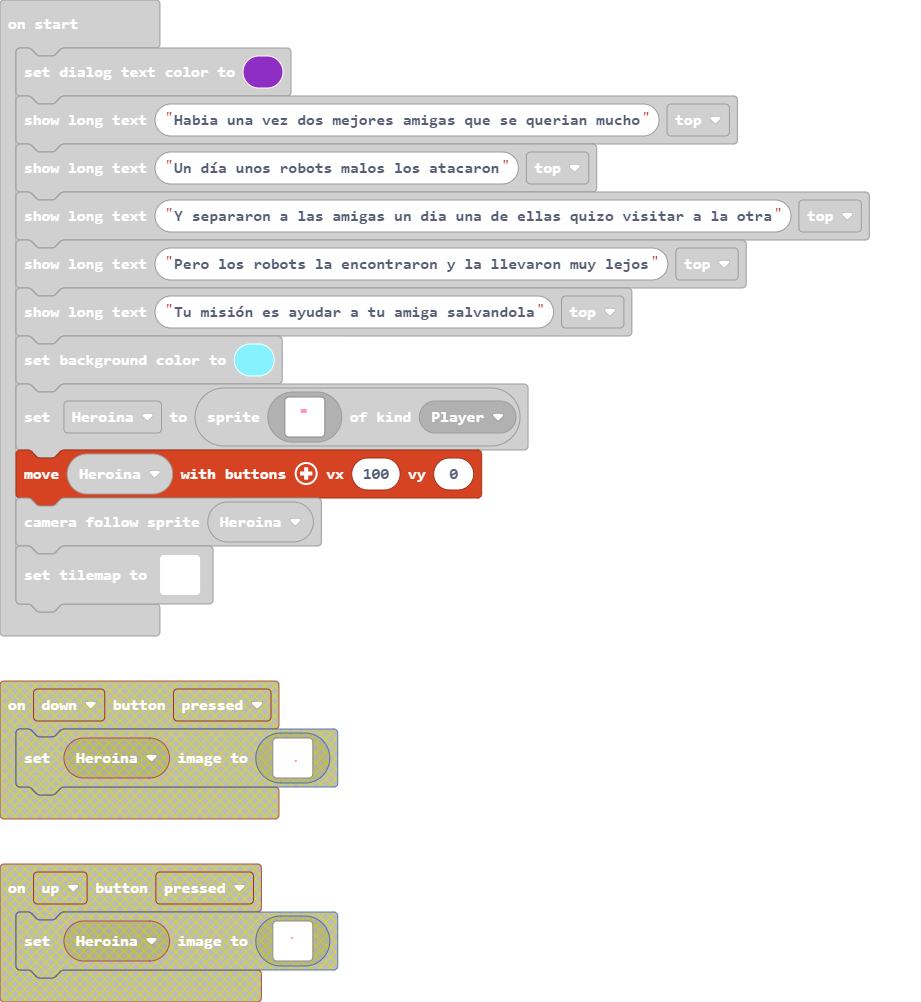
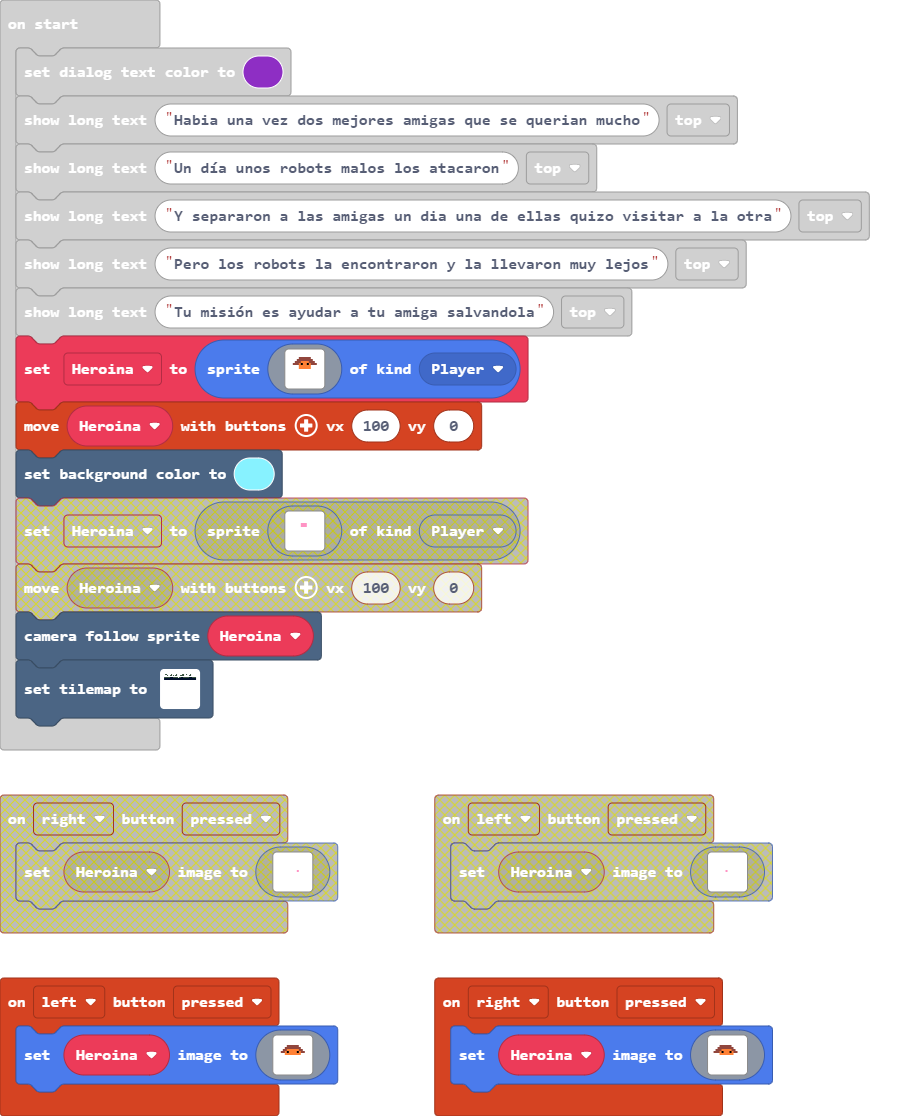
Agregue plataforma, un sprite botones, movimiento

diff --git a/main.ts b/main.ts
@@ -3,11 +3,11 @@ controller.left.onEvent(ControllerButtonEvent.Pressed, function () {
         . . . . . . . . . . . . . . . . 
         . . . . . . . . . . . . . . . . 
         . . . . . . . . . . . . . . . . 
-        . . . . . . . . . . . . . . . . 
-        . . . . . . . . . . . . . . . . 
-        . . . . . . . . . . . . . . . . 
-        . . . . . . . . . . . . . . . . 
-        . . . . . . . 3 . . . . . . . . 
+        . . . . . e e e e e e . . . . . 
+        . . . . e e e e e e e e . . . . 
+        . . . e e 4 4 4 4 4 4 e e . . . 
+        . . e e 4 f 4 4 4 4 f 4 e e . . 
+        . . . . 4 4 4 4 4 4 4 4 . . . . 
         . . . . . . . . . . . . . . . . 
         . . . . . . . . . . . . . . . . 
         . . . . . . . . . . . . . . . . 
@@ -23,11 +23,11 @@ controller.right.onEvent(ControllerButtonEvent.Pressed, function () {
         . . . . . . . . . . . . . . . . 
         . . . . . . . . . . . . . . . . 
         . . . . . . . . . . . . . . . . 
-        . . . . . . . . . . . . . . . . 
-        . . . . . . . . . . . . . . . . 
-        . . . . . . . . . . . . . . . . 
-        . . . . . . . . . . . . . . . . 
-        . . . . . . . . . . 3 . . . . . 
+        . . . . e e e e e e . . . . . . 
+        . . . e e e e e e e e . . . . . 
+        . . e e e 4 4 4 4 4 e e . . . . 
+        . e e e 4 f 4 4 4 f 4 e e . . . 
+        . . . . 4 4 4 4 4 4 4 . . . . . 
         . . . . . . . . . . . . . . . . 
         . . . . . . . . . . . . . . . . 
         . . . . . . . . . . . . . . . . 
@@ -45,16 +45,15 @@ game.showLongText("Un día unos robots malos los atacaron", DialogLayout.Top)
 game.showLongText("Y separaron a las amigas un dia una de ellas quizo visitar a la otra", DialogLayout.Top)
 game.showLongText("Pero los robots la encontraron y la llevaron muy lejos", DialogLayout.Top)
 game.showLongText("Tu misión es ayudar a tu amiga salvandola", DialogLayout.Top)
-scene.setBackgroundColor(9)
 Heroina = sprites.create(img`
     . . . . . . . . . . . . . . . . 
     . . . . . . . . . . . . . . . . 
-    . . . . . . . . . . . . . . . . 
-    . . . . . . . . . . . . . . . . 
-    . . . . . . 3 3 3 . . . . . . . 
-    . . . . . . 3 3 3 . . . . . . . 
-    . . . . . . . . . . . . . . . . 
-    . . . . . . . . . . . . . . . . 
+    . . . . . e e e e e e . . . . . 
+    . . . . e e e e e e e e . . . . 
+    . . . e e e 4 4 4 4 e e e . . . 
+    . . e e e 4 f 4 4 f 4 e e e . . 
+    . . . . . 4 4 4 4 4 4 . . . . . 
+    . . . . . 4 4 4 4 4 4 . . . . . 
     . . . . . . . . . . . . . . . . 
     . . . . . . . . . . . . . . . . 
     . . . . . . . . . . . . . . . . 
@@ -65,22 +64,39 @@ Heroina = sprites.create(img`
     . . . . . . . . . . . . . . . . 
     `, SpriteKind.Player)
 controller.moveSprite(Heroina, 100, 0)
+scene.setBackgroundColor(9)
 scene.cameraFollowSprite(Heroina)
-tiles.setTilemap(tiles.createTilemap(hex`1000100000000000000000000000000000000000000000000000000000000000000000000000000000000000000000000000000000000000000000000000000000000000000000000000000000000000000000000000000000000000000000000000000000000000000000000000000000000000000000000000000000000000000000000000000000000000000000000000000000000000000000000000000000000000000000000000000000000000000000000000000000000000000000000000000000000000000000000000000000000000000000000000000000000000000000000000000000000000000000000000000000000000000000000000000000000000`, img`
-    . . . . . . . . . . . . . . . . 
-    . . . . . . . . . . . . . . . . 
-    . . . . . . . . . . . . . . . . 
-    . . . . . . . . . . . . . . . . 
-    . . . . . . . . . . . . . . . . 
-    . . . . . . . . . . . . . . . . 
-    . . . . . . . . . . . . . . . . 
-    . . . . . . . . . . . . . . . . 
-    . . . . . . . . . . . . . . . . 
-    . . . . . . . . . . . . . . . . 
-    . . . . . . . . . . . . . . . . 
-    . . . . . . . . . . . . . . . . 
-    . . . . . . . . . . . . . . . . 
-    . . . . . . . . . . . . . . . . 
-    . . . . . . . . . . . . . . . . 
-    . . . . . . . . . . . . . . . . 
-    `, [myTiles.transparency16], TileScale.Sixteen))
+tiles.setTilemap(tiles.createTilemap(hex`2000200000000000000000000000000000000000000000000000000000000000000000000001010000000001000000000100000000000101000001000000010000000000000000010000010100010001010000000101010100000000000101000000000000000000000000000000000000000000000000000000000000000000000000000101010101010202020101010101000101020201010101010102020201010101020202020202020202020202020202020202020202020202020202020202020202020202020202020202020202020202020202020202020202020202020202020000000000000000000000000000000000000000000000000000000000000000000000000000000000000000000000000000000000000000000000000000000000000000000000000000000000000000000000000000000000000000000000000000000000000000000000000000000000000000000000000000000000000000000000000000000000000000000000000000000000000000000000000000000000000000000000000000000000000000000000000000000000000000000000000000000000000000000000000000000000000000000000000000000000000000000000000000000000000000000000000000000000000000000000000000000000000000000000000000000000000000000000000000000000000000000000000000000000000000000000000000000000000000000000000000000000000000000000000000000000000000000000000000000000000000000000000000000000000000000000000000000000000000000000000000000000000000000000000000000000000000000000000000000000000000000000000000000000000000000000000000000000000000000000000000000000000000000000000000000000000000000000000000000000000000000000000000000000000000000000000000000000000000000000000000000000000000000000000000000000000000000000000000000000000000000000000000000000000000000000000000000000000000000000000000000000000000000000000000000000000000000000000000000000000000000000000000000000000000000000000000000000000000000000000000000000000000000000000000000000000000000000000000000000000000000000000000000000000000000000000000000000000000000000000000000000000000000000000000000000000000000000000000000000000000000000000000000000000000000000000000000000000000000000000000000000000000000000000000000000000000000000000000000000000000000000000000000000000000000000000000000000000000000000000000000000000000`, img`
+    . . . . . . . . . . . . . . . . . . . . . . . . . . . . . . . . 
+    . 2 2 . . . . 2 . . . . 2 . . . . . 2 2 . . 2 . . . 2 . . . . . 
+    . . . 2 . . 2 2 . 2 . 2 2 . . . 2 2 2 2 . . . . . 2 2 . . . . . 
+    . . . . . . . . . . . . . . . . . . . . . . . . . . . . . . . . 
+    2 2 2 2 2 2 . . . 2 2 2 2 2 . 2 2 . . 2 2 2 2 2 2 . . . 2 2 2 2 
+    . . . . . . . . . . . . . . . . . . . . . . . . . . . . . . . . 
+    . . . . . . . . . . . . . . . . . . . . . . . . . . . . . . . . 
+    . . . . . . . . . . . . . . . . . . . . . . . . . . . . . . . . 
+    . . . . . . . . . . . . . . . . . . . . . . . . . . . . . . . . 
+    . . . . . . . . . . . . . . . . . . . . . . . . . . . . . . . . 
+    . . . . . . . . . . . . . . . . . . . . . . . . . . . . . . . . 
+    . . . . . . . . . . . . . . . . . . . . . . . . . . . . . . . . 
+    . . . . . . . . . . . . . . . . . . . . . . . . . . . . . . . . 
+    . . . . . . . . . . . . . . . . . . . . . . . . . . . . . . . . 
+    . . . . . . . . . . . . . . . . . . . . . . . . . . . . . . . . 
+    . . . . . . . . . . . . . . . . . . . . . . . . . . . . . . . . 
+    . . . . . . . . . . . . . . . . . . . . . . . . . . . . . . . . 
+    . . . . . . . . . . . . . . . . . . . . . . . . . . . . . . . . 
+    . . . . . . . . . . . . . . . . . . . . . . . . . . . . . . . . 
+    . . . . . . . . . . . . . . . . . . . . . . . . . . . . . . . . 
+    . . . . . . . . . . . . . . . . . . . . . . . . . . . . . . . . 
+    . . . . . . . . . . . . . . . . . . . . . . . . . . . . . . . . 
+    . . . . . . . . . . . . . . . . . . . . . . . . . . . . . . . . 
+    . . . . . . . . . . . . . . . . . . . . . . . . . . . . . . . . 
+    . . . . . . . . . . . . . . . . . . . . . . . . . . . . . . . . 
+    . . . . . . . . . . . . . . . . . . . . . . . . . . . . . . . . 
+    . . . . . . . . . . . . . . . . . . . . . . . . . . . . . . . . 
+    . . . . . . . . . . . . . . . . . . . . . . . . . . . . . . . . 
+    . . . . . . . . . . . . . . . . . . . . . . . . . . . . . . . . 
+    . . . . . . . . . . . . . . . . . . . . . . . . . . . . . . . . 
+    . . . . . . . . . . . . . . . . . . . . . . . . . . . . . . . . 
+    . . . . . . . . . . . . . . . . . . . . . . . . . . . . . . . . 
+    `, [myTiles.transparency16,sprites.castle.saplingPine,myTiles.tile2], TileScale.Sixteen))

diff --git a/tilemap.g.ts b/tilemap.g.ts
@@ -4,6 +4,8 @@ namespace myTiles {
     export const transparency16 = image.ofBuffer(hex``);
     //% fixedInstance jres blockIdentity=images._tile
     export const tile1 = image.ofBuffer(hex``);
+    //% fixedInstance jres blockIdentity=images._tile
+    export const tile2 = image.ofBuffer(hex``);
 
 }
 // Auto-generated code. Do not edit.
